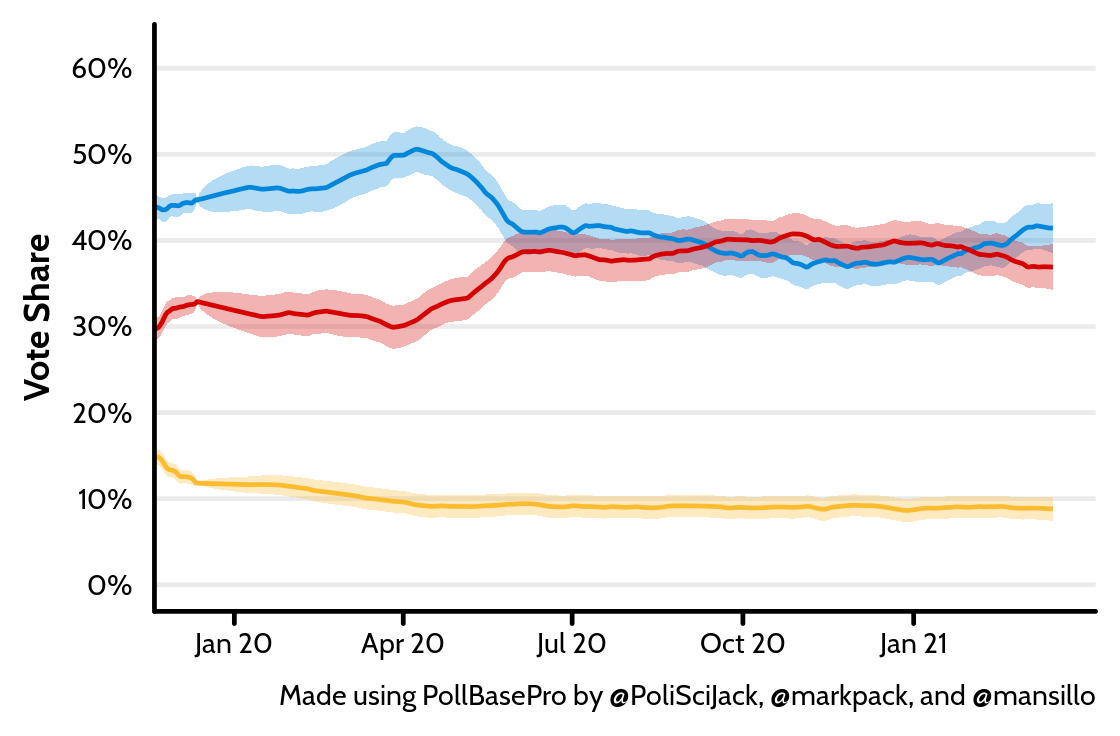
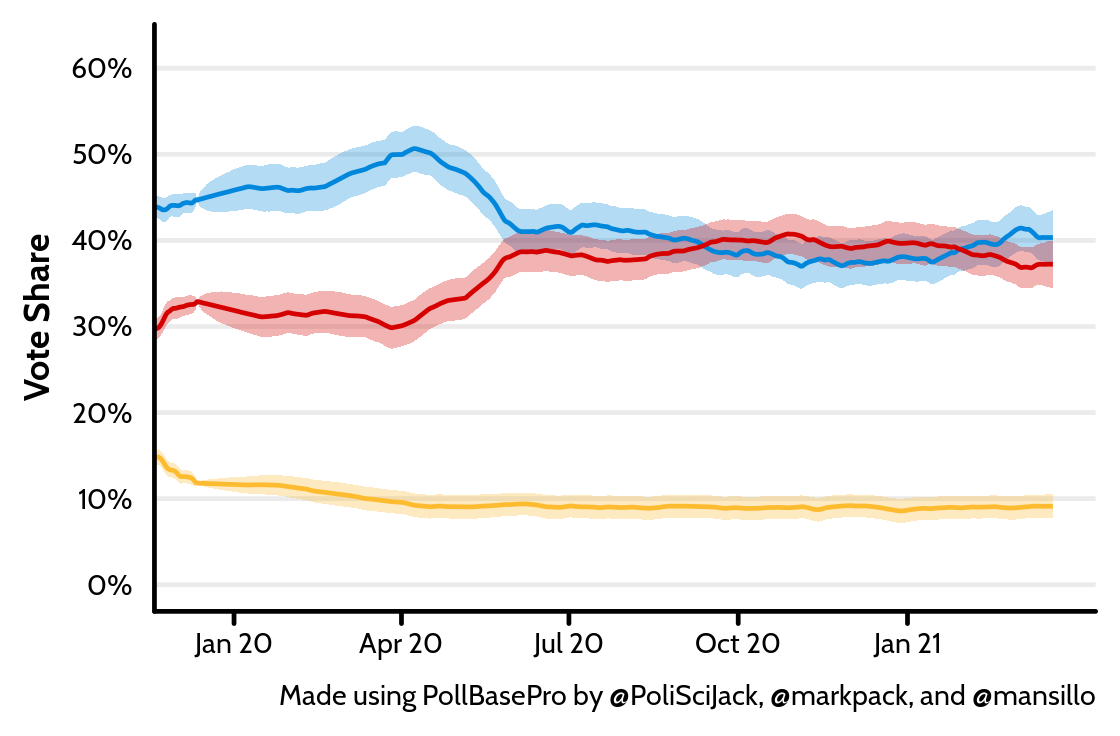
Updated README

diff --git a/README.md b/README.md
@@ -5,16 +5,13 @@
 
 <img src="https://raw.githubusercontent.com/jackobailey/britpol/master/documentation/_assets/hex.png" alt="The britpol hexlogo" align="right" width="200" style="padding: 0 15px; float: right;"/>
 
-`{britpol}` is an `R` package that makes analysing British political
-data quick and simple. It contains two pre-formatted datasets, plus a
-host of useful functions. The first dataset, `pollbase`, is a
-long-format version of Mark Pack’s dataset of historic British public
-opinion polls combined with more recent data from Wikipedia. The second
-dataset, `pollbasepro`, provides 24,038 daily estimates of voting
-intention figures for each of Britain’s three largest parties between 26
-May 1955 and 17 March 2021. [Stata and SPSS versions of the data are
-available
-too](https://github.com/jackobailey/britpol/tree/master/download).
+The `{britpol}` package makes analysing British political data quick and
+simple. It contains two pre-formatted datasets, plus a host of useful
+functions. The first dataset, `pollbase`, is a long-format version of
+Mark Pack’s dataset of historic British public opinion polls combined
+with more recent data from Wikipedia. The second, `pollbasepro`,
+provides 24,042 daily estimates of voting intention figures for each of
+Britain’s three largest parties from 26 May 1955 to 21 March 2021.
 
 To install the latest version of `{britpol}`, run the following code in
 `R`:
@@ -27,15 +24,15 @@ devtools::install_github("jackobailey/britpol")
 
 <img src="https://raw.githubusercontent.com/jackobailey/britpol/master/documentation/_assets/timeplot_gh.png" alt="Recent polling figures" align="right" width="400" style="padding: 0 15px; float: right;"/>
 
-**British Poll of Polls, 17 March 2021:**
+**British Poll of Polls, 21 March 2021:**
 
--   **Conservative Party:** 41% (38% to 44%)
+-   **Conservative Party:** 40% (37% to 43%)
 -   **Labour Party:** 37% (34% to 40%)
--   **Liberal Democrats:** 9% (7% to 10%)
+-   **Liberal Democrats:** 9% (8% to 11%)
 
-As of 17 March 2021, `pollbasepro` suggests that the Conservative Party
-is the largest party in Britain. They hold a lead over the Labour Party
-of around 5% (1% to 8%). This puts the Labour Party in second place and
+The `pollbasepro` data suggest that the Conservative Party is the
+largest party in Britain. They hold a lead over the Labour Party of
+around 3% (-1% to 7%). This puts the Labour Party in second place and
 the Liberal Democrats in third place.
 
 ## Notes, Usage, and Attribution
@@ -49,7 +46,7 @@ update, please [raise an
 issue](https://github.com/jackobailey/britpol/issues).
 
 You may also use the `{britpol}` codebase for your own purposes in line
-with [our
+with [its
 license](https://github.com/jackobailey/britpol/blob/master/LICENSE.md).
 But you must do so *with attribution*. That is, you may reproduce,
 reuse, and adapt the code as you see fit, but must state in each case
